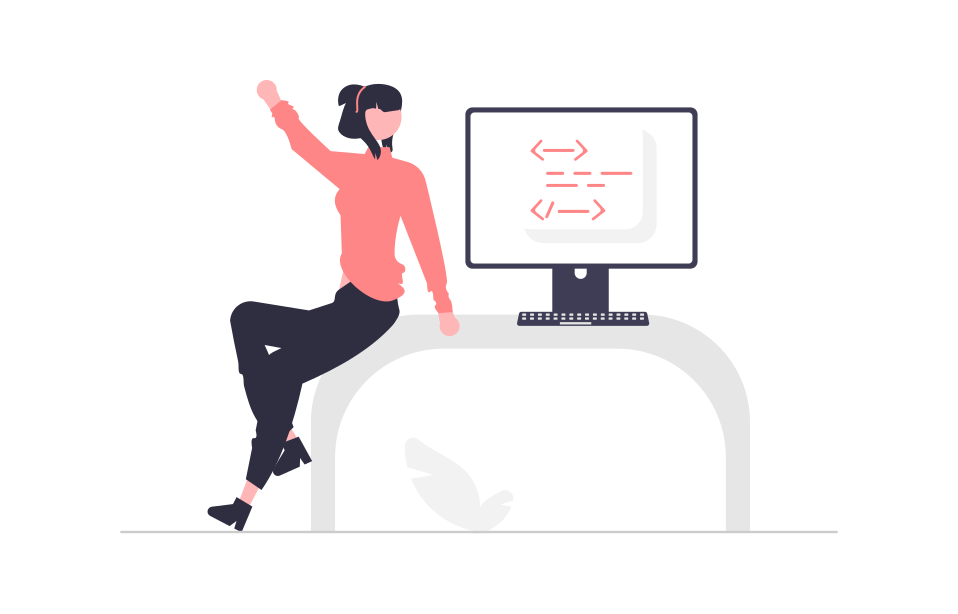
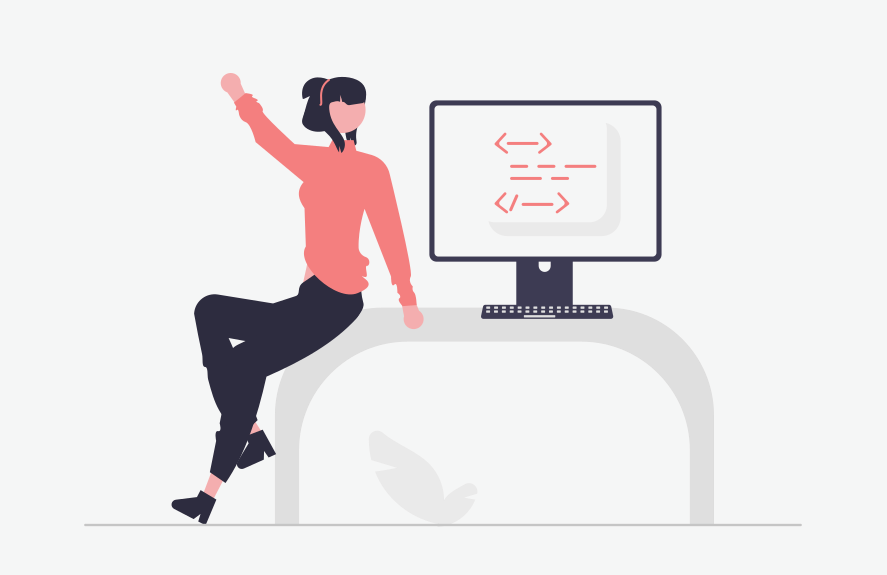
Added animation image

diff --git a/src/components/Portfolio/Animation.js b/src/components/Portfolio/Animation.js
@@ -1,8 +1,9 @@
 import React, { useState } from "react";
-
 import { useTransition, config, animated } from "react-spring";
 
-function Toggle() {
+import "./Homepage.css";
+
+function Animation() {
   const [toggle, set] = useState(false);
   const transitions = useTransition(toggle, {
     from: { position: "absolute", opacity: 0 },
@@ -20,8 +21,9 @@ function Toggle() {
           position: "absolute",
           opacity: opacity.to({ range: [0.0, 1.0], output: [0, 1] }),
         }}
+        className="animation"
       >
-        <img src="../images/coding.png" className="img-fluid" width="100" />
+        <img src="../images/coding.png" className="img-fluid" />
       </animated.div>
     ) : (
       <animated.div
@@ -29,14 +31,12 @@ function Toggle() {
           position: "absolute",
           opacity: opacity.to({ range: [1.0, 0.0], output: [1, 0] }),
         }}
+        className="animation"
       >
-        <img
-          src="../images/proud_coder.png"
-          className="img-fluid"
-          width="100"
-        />
+        <img src="../images/proud_coder.png" className="img-fluid" />
       </animated.div>
     )
   );
 }
-export default Toggle;
+
+export default Animation;

diff --git a/src/components/Portfolio/Homepage.css b/src/components/Portfolio/Homepage.css
@@ -22,12 +22,30 @@
   background: -webkit-gradient(linear, left bottom, left top, from(#feada6), to(#f5efef));
   background: linear-gradient(to top, #feada6 0%, #f5efef 100%);
   margin: 0 auto;
-  padding: 180px 100px;
+  padding: 220px 100px;
   border: none;
   border-radius: 0;
 }
 
+.animation img {
+  width: 40%;
+  border-radius: 50%;
+}
+
 body {
   background: #ffebeb;
+}
+
+.homepage {
+  margin-top: -15%;
+}
+
+.top-section {
+  display: -webkit-box;
+  display: -ms-flexbox;
+  display: flex;
+  -webkit-box-pack: space-evenly;
+      -ms-flex-pack: space-evenly;
+          justify-content: space-evenly;
 }
 /*# sourceMappingURL=Homepage.css.map */

diff --git a/src/components/Portfolio/Homepage.js b/src/components/Portfolio/Homepage.js
@@ -6,8 +6,17 @@ import Animation from "./Animation";
 const Homepage = () => {
   return (
     <Card>
-      <card className="top-section">
-        <Animation />
+      <card className="container homepage">
+        <div className="row top-section">
+          <div className="col-4">
+            <Animation />
+          </div>
+          <div className="col-6">
+            <h1>Hi, I am Akanesi Tohotoa</h1>
+            <p>React Developer, Front-end Developer</p>
+            <div></div>
+          </div>
+        </div>
       </card>
     </Card>
   );

diff --git a/src/components/Portfolio/Homepage.scss b/src/components/Portfolio/Homepage.scss
@@ -4,10 +4,16 @@ $font-color: #736a6a;
 
 @import "./Navbar";
 @import "../UI/Card";
+@import "./Animation";
 
 body {
   background: $second-color;
 }
 
+.homepage {
+  margin-top: -15%;
+}
 .top-section {
+  display: flex;
+  justify-content: space-evenly;
 }

diff --git a/src/components/UI/_Card.scss b/src/components/UI/_Card.scss
@@ -1,7 +1,7 @@
 .card {
   background: linear-gradient(to top, #feada6 0%, #f5efef 100%);
   margin: 0 auto;
-  padding: 180px 100px;
+  padding: 220px 100px;
   border: none;
   border-radius: 0;
 }

diff --git a/src/components/Portfolio/_Animation.scss b/src/components/Portfolio/_Animation.scss
@@ -1,0 +1,4 @@
+.animation img {
+  width: 40%;
+  border-radius: 50%;
+}
